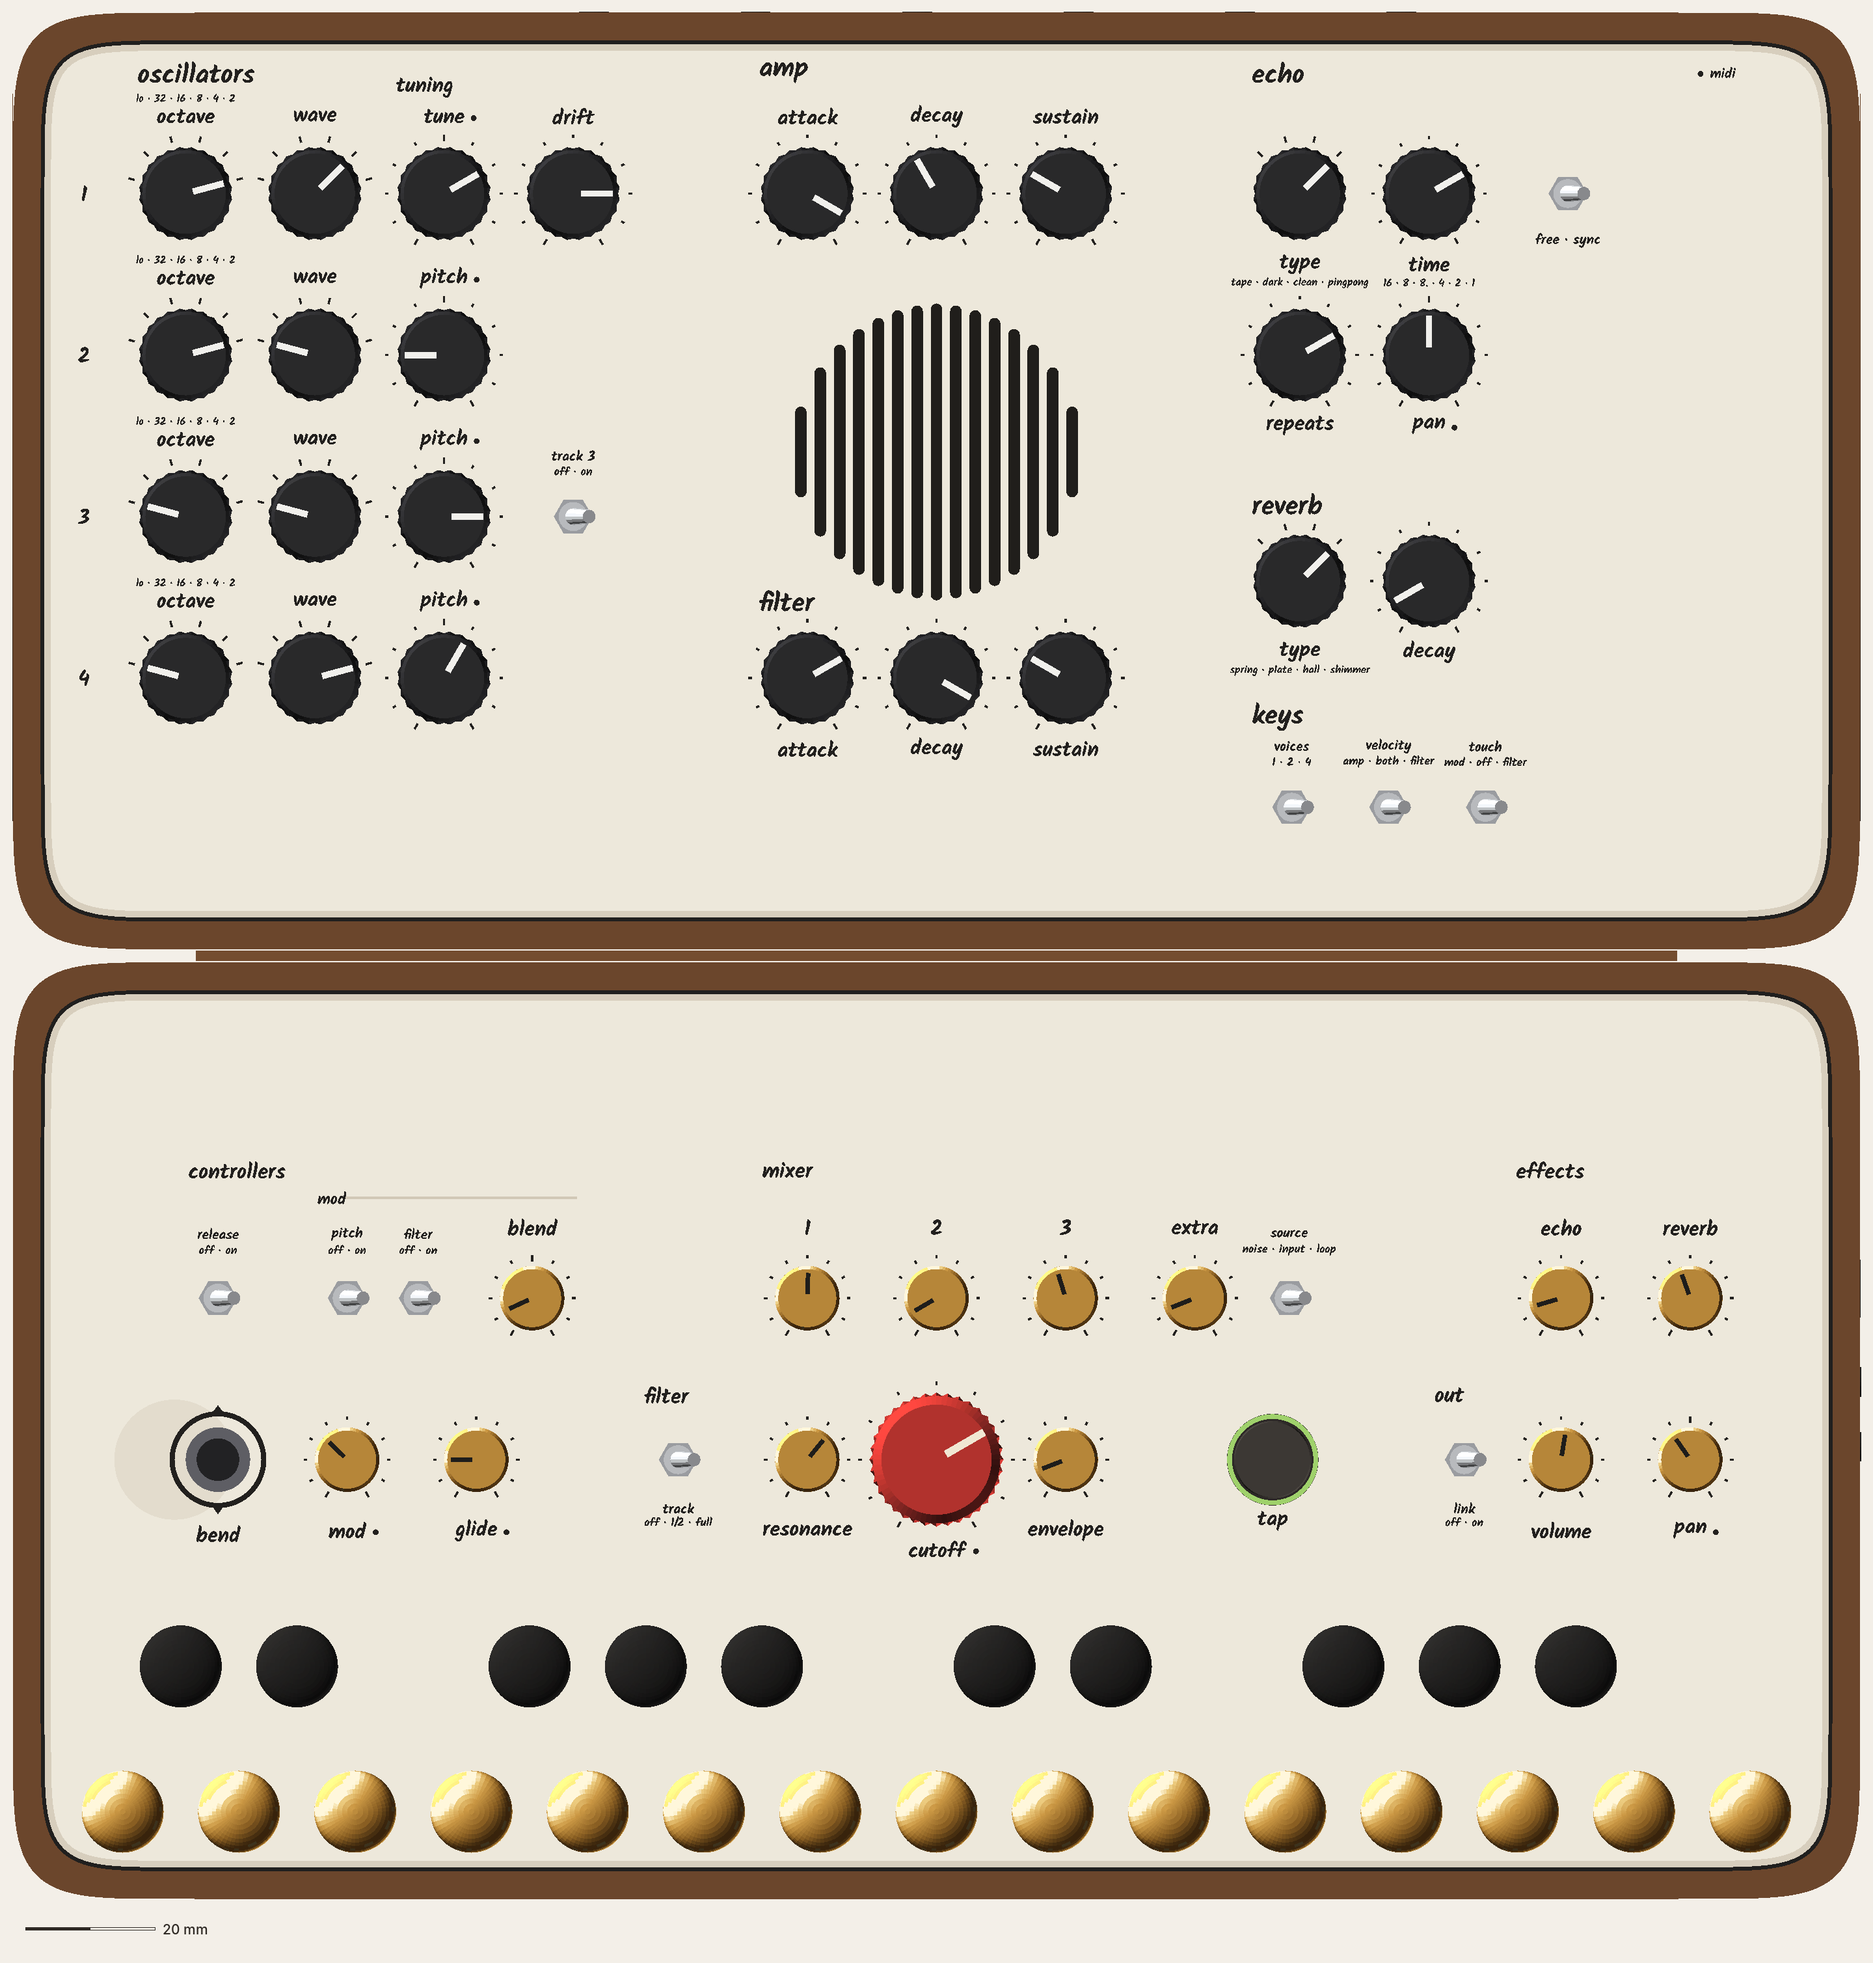
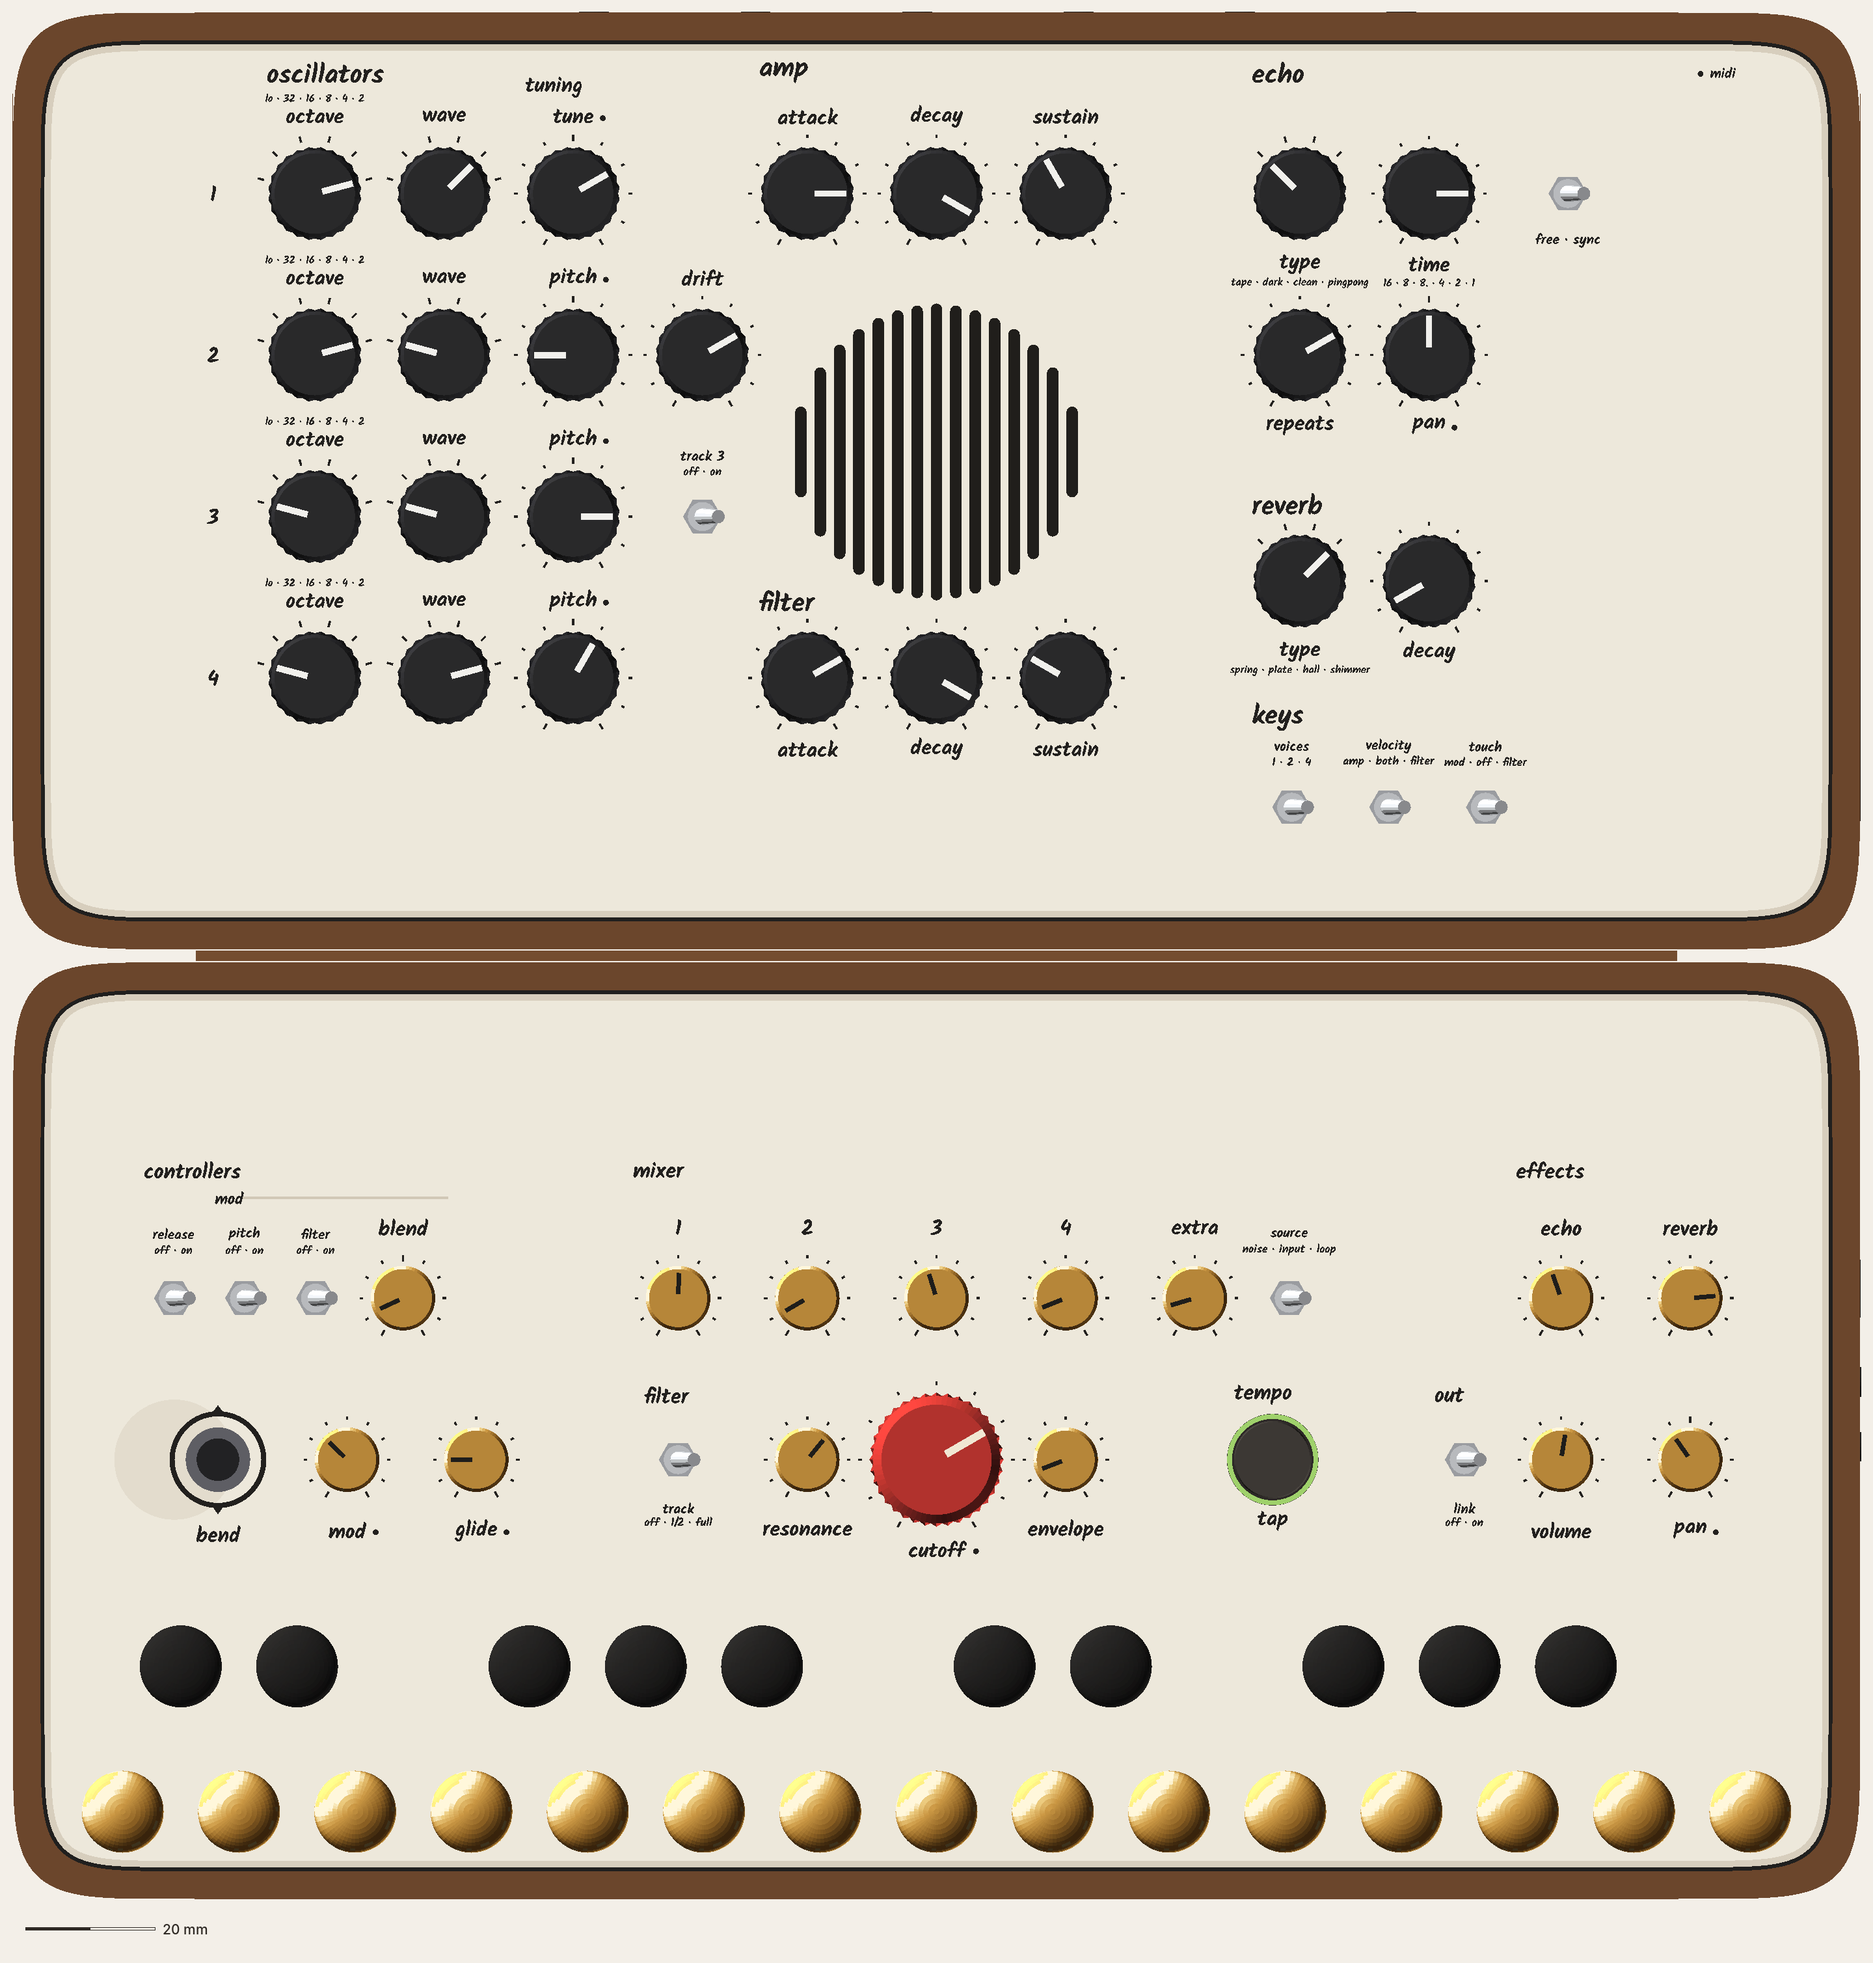
CATHEDRAL P5OB-D round 9 (7973b7a), visual: full top with VCO 4 and standing view at D 145; real-Kalam 0; keys-to-reverb 1M shortfall flagged

diff --git a/design/concepts/_mock-src/rb.py b/design/concepts/_mock-src/rb.py
@@ -1737,6 +1737,7 @@ def nv_fit_sections(lc, sections):
 
 LEGEND_FIT = {}   # (echo "time" +0.5 is the checker's LEGEND_NUDGE since 33229cd; read below)
 P5R_HEAD_FIT = {"filter": (0.0, 0.8), "amp": (0.0, 0.8), "keys": (0.0, 0.6), "oscillators": (0.0, 0.6)}   # e38e035 real Kalam: filter / amp 0.83 / 0.79 over "attack"; keys 0.94 over "voices"; 3fa4e78: oscillators 0.93 over the "1"
+P5OBD_HEAD_FIT = {}   # 7973b7a: "keys" sits 4.07 under reverb's names line (rule 5); lowering it meets "voices" first: ~3.8 mm short, systems
 P5O_HEAD_FIT = {"filter": (0.0, 0.8), "amp": (0.0, 0.8)}   # 74ef961 studies: the old reverb fit is dropped (that heading moved); filter / amp +0.8 clear their attack knobs' top ticks (real 0.24 / 0.28). Was {"reverb": (-3.8, 1.55)}   # 33229cd: "reverb" over decay again: +1.55 clears decay's top tick (real 0.00); -3.8 hangs it into the gutter exactly like "out", so it sits >= 20 from the type fan (systems' zone rule)
 def nv_heads_left(lc, sections):
     """steer 5 score fixes 2. P5O: systems' SECTIONS_LEFT (every heading top-left of its group), with the visual's
@@ -1747,7 +1748,8 @@ def nv_heads_left(lc, sections):
     voices (6 rule violations), so P5R needs systems' geometry first."""
     if getattr(lc, "SECTIONS_LEFT", None):
         hf = P5O_HEAD_FIT if getattr(lc, "VARIANT", "") in P5O_FAMILY else \
-             (P5R_HEAD_FIT if getattr(lc, "VARIANT", "") == "P5R" else {})   # (e38e035: P5R is top-left too)
+             (P5R_HEAD_FIT if getattr(lc, "VARIANT", "") == "P5R" else
+              (P5OBD_HEAD_FIT if getattr(lc, "VARIANT", "") == "P5OBD" else {}))   # (e38e035: P5R is top-left too)
         heads = [(t, x + hf.get(t, (0, 0))[0], d + hf.get(t, (0, 0))[1]) for t, x, d in lc.SECTIONS_LEFT]
         return heads, [(t, x - len(t) * 0.25 * lc.SUB_S, d) for t, x, d in nv_fit_subheads(lc)], "left"
     # 049e51e real Kalam: P5R row-C headings +1.5 ("keys" sat 0.09 over "velocity"); "filter" / "amp" +1.2 (0.38 / 0.42
@@ -2282,6 +2284,7 @@ def jobs(SZ):
         "rb_nv5_O4_stand": lambda: (lambda n: shot4(n.model("stand"), fp_rect(0, 0, W, n.D + 64), "rb_nv5_O4_stand", size=SZ, az=-32, el=24, dist=860, center=(143, n.D * 0.6, 58), grain_classes=(), wood=True) and relight(os.path.join(OUT, "rb_nv5_O4_stand.png")))(nave_env("P5O", CATHEDRAL_VCO4="1")),
         "rb_nv5_Rfb_top": lambda: (lambda n: top4(n.model(True), "rb_nv5_Rfb_top", -2, -2, W + 2, 2 * n.D + 4, px_per_mm=8, grain_classes=()))(nave_env("P5R", CATHEDRAL_P5R_KEYS="line")),
         # §22 studies (owner judges the amp-row trade by eye; holes kept): full tops only
+        "rb_s8_P5OBD_stand": lambda: (lambda n: shot4(n.model("stand"), fp_rect(0, 0, W, n.D + 64), "rb_s8_P5OBD_stand", size=SZ, az=-32, el=24, dist=900, center=(143, n.D * 0.6, 62), grain_classes=(), wood=True) and relight(os.path.join(OUT, "rb_s8_P5OBD_stand.png")))(nave_env("P5OBD", CATHEDRAL_D="145", CATHEDRAL_VCO4="1")),
         "rb_s8_P5OBD_top": lambda: (lambda n: top_tall(n.model(True), "rb_s8_P5OBD_top", -2, -2, W + 2, 2 * n.D + 4, px_per_mm=9.96, grain_classes=()))(nave_env("P5OBD", CATHEDRAL_D="145", CATHEDRAL_VCO4="1")),
         "rb_s7_P5OB_top": lambda: (lambda n: top4(n.model(True), "rb_s7_P5OB_top", -2, -2, W + 2, 2 * n.D + 4, px_per_mm=8, grain_classes=()))(Nave(lid="P5OB", spine="dark")),
         **{f"rb_s6_{v}_top": (lambda v=v: (lambda n: top4(n.model(True), f"rb_s6_{v}_top", -2, -2, W + 2, 2 * n.D + 4, px_per_mm=8, grain_classes=()))(Nave(lid=v, spine="dark"))) for v in ("P5O", "P5OA", "P5OL")},

diff --git a/design/branches/concepts/cathedral/how-it-looks-and-feels.md b/design/branches/concepts/cathedral/how-it-looks-and-feels.md
@@ -39,8 +39,12 @@ Seed: CHAMBER rev 2 + FOLD-105 v1.1. Owner record: `design/owner.md` (14:12 onwa
 
 ### P5OB-D study (systems §25): four oscillators at D 145
 <figure>
-<img src="img/cathedral-s8-P5OBD-study-top-9.9px-per-mm.png" alt="Exact top view of the P5OB-D study open flat, both halves 286 by 145 mm. Lid: four oscillator rows at the left (octave with its positions line, wave, pitch; tune and drift on the first row under tuning; VCO 3's track 3 switch), the amp envelope as a row over the slotted window and the filter envelope as a row under it, and on the right echo, then reverb, then the keys switches, each group on its own rows; the MIDI key at the top right. Base: the round 8 base at the deeper depth, with a wide band at the back.">
-<figcaption><b>P5OB-D study: the critic's four-oscillator centre spine at D 145</b> (exact, scale bar 20 mm). Both halves are 286 × 145. The 7 checker gaps are by design and left in. The stick is lowered to 9.0. Real Kalam: 0. <b>For systems:</b> with VCO 4 fitted, the base mixer still shows 1 · 2 · 3 · extra (no mixer 4).</figcaption>
+<img src="img/cathedral-s8-P5OBD-study-top-9.9px-per-mm.png" alt="Exact top view of the P5OB-D study open flat, both halves 286 by 145 mm, round 9. Lid: four oscillator rows shifted 20 mm in from the left edge (octave with its positions line, wave, pitch; tune on the first row under tuning, drift in VCO 2's fourth slot; VCO 3's track 3 switch), the amp envelope as a row over the slotted window and the filter envelope as a row under it, and on the right echo, then reverb, then the keys switches; the MIDI key at the top right. Base: the mixer 1 to 4 over the filter row with extra and source one column right, effects over out, tempo over tap.">
+<figcaption><b>P5OB-D study, round 9: four oscillators at D 145</b> (exact, scale bar 20 mm). The bank sits 20 mm in, so the bend stick closes at full height. Drift is in VCO 2's fourth slot, and the headings share one baseline. The 6 checker gaps are kept. Real Kalam: 0. <b>For systems:</b> "keys" sits 4.07 mm under reverb's names line, against the 5 mm (1M) legend-to-heading rule. Lowering it meets "voices" first, so the right column is ≈ 3.8 mm short.</figcaption>
+</figure>
+<figure>
+<img src="img/cathedral-s8-P5OBD-study-standing.jpg" alt="P5OB-D standing at 120 degrees on its brass stays: the deeper lid with the four-row oscillator bank at the left, the speaker window between the amp and filter rows, and echo, reverb and keys on the right; the base below with its two rows of gold knobs, the red cutoff dial, the black tap with its lit ring, and the brass and black keys.">
+<figcaption><b>P5OB-D, standing</b> at D 145: the deeper halves in use.</figcaption>
 </figure>
 
 ### Rev 9.9: round 8 (systems 3fa4e78)
